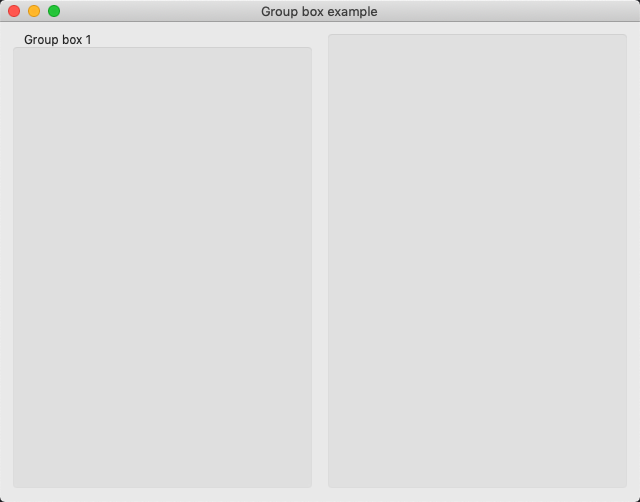
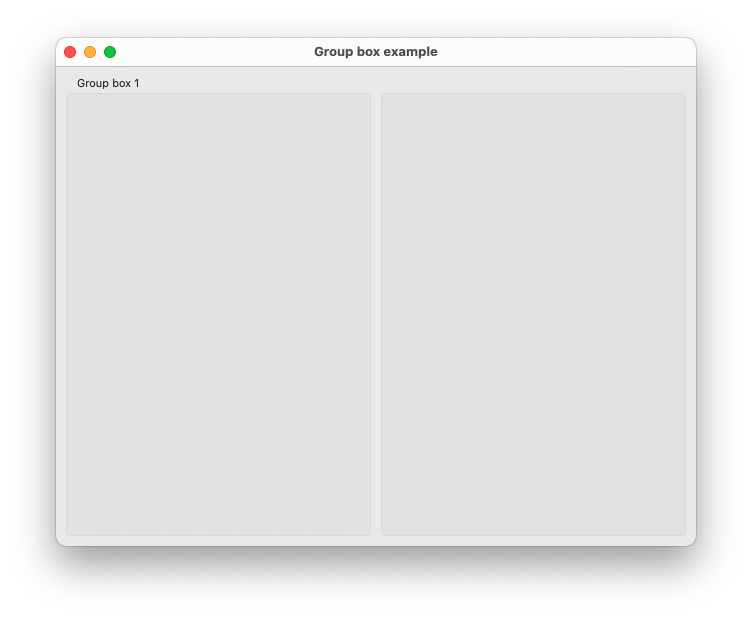
Fix group_box on macOS

Changed region(s): [[0.0, 0.0, 1.0, 0.9861], [0.0938, 0.8665, 0.9062, 0.9263]]

diff --git a/src/xtd.forms.native.wxwidgets/include/xtd/forms/native/wxwidgets/wx_group_box.h b/src/xtd.forms.native.wxwidgets/include/xtd/forms/native/wxwidgets/wx_group_box.h
@@ -115,7 +115,11 @@ namespace xtd {
           if (owner_draw_)
             control_handler::create<wxGroupBoxOwnerDraw>(reinterpret_cast<control_handler*>(create_params.parent)->main_control(), wxID_ANY, wxString(xtd::convert_string::to_wstring(create_params.caption)), wxPoint(create_params.location.x(), create_params.location.y()), wxSize(create_params.size.width(), create_params.size.height()), style_to_wx_style(create_params.style, create_params.ex_style));
           else {
-            control_handler::create<wxGroupBox>(reinterpret_cast<control_handler*>(create_params.parent)->main_control(), wxID_ANY, wxString(xtd::convert_string::to_wstring(create_params.caption)), wxPoint(create_params.location.x(), create_params.location.y()), wxSize(create_params.size.width(), create_params.size.height()), style_to_wx_style(create_params.style, create_params.ex_style));
+            auto caption = create_params.caption;
+            #if defined(__APPLE__)
+            if (ustring::is_empty(caption)) caption = " ";
+            #endif
+            control_handler::create<wxGroupBox>(reinterpret_cast<control_handler*>(create_params.parent)->main_control(), wxID_ANY, wxString(xtd::convert_string::to_wstring(caption)), wxPoint(create_params.location.x(), create_params.location.y()), wxSize(create_params.size.width(), create_params.size.height()), style_to_wx_style(create_params.style, create_params.ex_style));
             #if defined(__WIN32__)
             if (xtd::drawing::system_colors::window().get_lightness() < 0.5) {
               control()->SetBackgroundColour(wxColour(xtd::drawing::system_colors::control().r(), xtd::drawing::system_colors::control().g(), xtd::drawing::system_colors::control().b(), xtd::drawing::system_colors::control().a()));
@@ -128,6 +132,14 @@ namespace xtd {
         static long style_to_wx_style(size_t style, size_t ex_style) {
           long wx_style = 0;
           return wx_style;
+        }
+        
+        void SetLabel(const wxString& label) override {
+          auto caption = label;
+          #if defined(__APPLE__)
+          if (caption.IsEmpty()) caption = " ";
+          #endif
+          control_handler::SetLabel(caption);
         }
         
         bool owner_draw_ = false;
